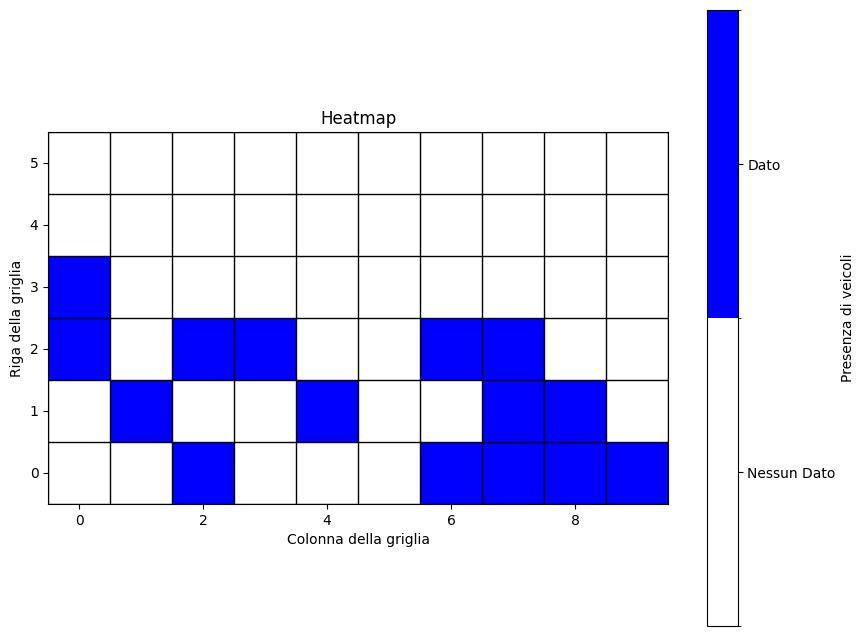
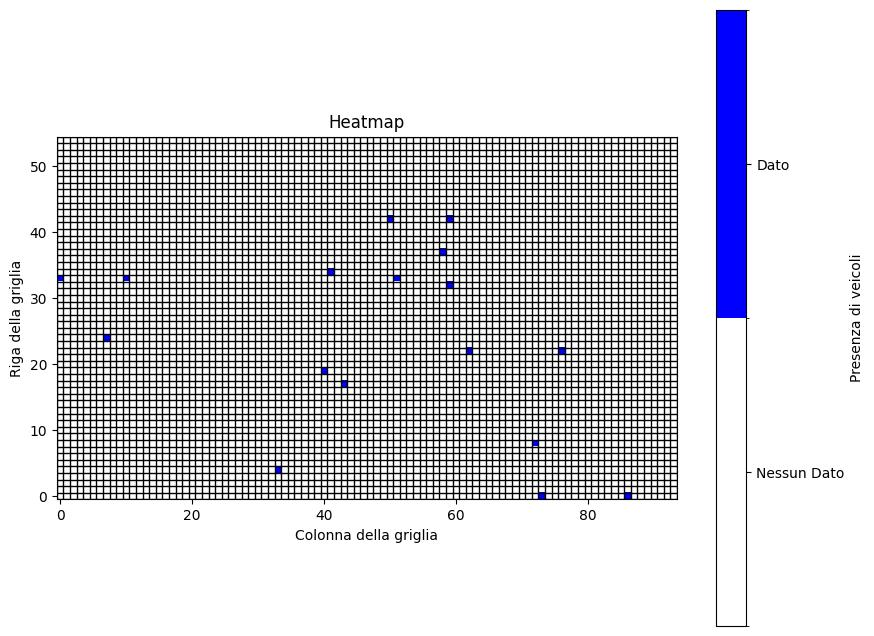
random start vehicles

diff --git a/parking_on_off_road/parking_on_off_road.py b/parking_on_off_road/parking_on_off_road.py
@@ -643,12 +643,14 @@ def estrai_numero(veicolo):
 
 def random_point_on_map():
     # Ottenere i limiti della mappa
-    edges = traci.edge.getIDList()
+
     min_x, min_y, max_x, max_y = float('inf'), float('inf'), float('-inf'), float('-inf')
     NET_FILE = "parking_on_off_road.net.xml"
     tree = ET.parse(NET_FILE)
     root = tree.getroot()
     ENTRY_EXIT_LIST = ["E85","-E85","E86","-E86"]
+
+    #calcolo lane arrivo
     try:
         # Iterare su tutti gli edge
         for edge in root.findall('edge'):
@@ -715,35 +717,83 @@ def random_point_on_map():
                 edge_id = e
                 break
 
+    # calcolo lane partenza
+    try:
+        # Iterare su tutti gli edge
+        for edge in root.findall('edge'):
+            # Iterare su tutte le lane all'interno dell'edge
+            if edge.get("id") not in ENTRY_EXIT_LIST:
+                for lane in edge.findall('lane'):
+                    # Ottenere il valore dell'attributo shape
+                    shape = lane.get('shape')
+                    if shape:
+                        # Analizzare i punti dell'attributo shape
+                        points = shape.split()
+                        for point in points:
+                            x, y = map(float, point.split(','))
+                            # Aggiornare i limiti
+                            min_x = min(min_x, x)
+                            min_y = min(min_y, y)
+                            max_x = max(max_x, x)
+                            max_y = max(max_y, y)
 
-    """if heatmap == True:
-        if random.random() < 0.5:
-            preference = "distance"
-        else:
-            preference = "find-possibility"
+
+
+    except Exception as e:
+        print(f"Errore durante l'ottenimento dei limiti della mappa dal file di rete: {e}")
+        return None, None, None, None
+
+        # Generare un punto casuale all'interno dei limiti della mappa
+    random_x = random.uniform(min_x, max_x)
+    random_y = random.uniform(min_y, max_y)
+
+    # Generare randomicamente edge_id = None con una probabilità del 10%
+    # if random.random() < 0.1:  # Probabilità del 10%
+    #   return (random_x, random_y), None
+
+    # Generare randomicamente uso heatmap 40%
+    if random.random() < 0.7:  # Probabilità del 40%
+        heatmap = True
     else:
-        preference = None
-    """
+        heatmap = False
+
+    # Ottenere l'edge più vicino al punto casuale
+    edge_id_p = None
+    while edge_id_p == None or edge_id_p in ENTRY_EXIT_LIST:
+        # print(f"edge id: {edge_id}")
+        try:
+            random_x = random.uniform(min_x, max_x)
+            random_y = random.uniform(min_y, max_y)
+            edge_id_p, _, _ = traci.simulation.convertRoad(random_x, random_y, isGeo=False)
+        except traci.TraCIException:
+            edge_id_p = None
+
+    connected_edges = []
+    # Verificare se l'edge_id è quello di una junction e trovare un edge connesso
+    if edge_id_p and edge_id_p.startswith(':'):
+        for edge in root.findall('edge'):
+            # print(f"to: {edge.get('to')}, current {(edge_id.split('_')[0])[1:]}")
+            if edge.get("to") == (edge_id_p.split('_')[0])[1:]:
+                connected_edges.append(edge.get("id"))
+
+        for e in connected_edges:
+            if not e.startswith(':') and e not in ENTRY_EXIT_LIST:
+                edge_id_p = e
+                break
 
     """,preference"""
-    return (random_x, random_y), edge_id,heatmap
+    return (random_x, random_y), edge_id_p,edge_id,heatmap
 
 
-def get_vehicle_ids_from_xml(xml_file):
+def get_vehicle_number_from_xml(xml_file):
     tree = ET.parse(xml_file)
     root = tree.getroot()
 
-    vehicle_ids = []
-    for flow in root.findall('.//flow'):
-        flow_id = flow.get('id')
-        number = int(flow.get('number', 0))
-        for i in range(number):
-            vehicle_ids.append(f"{flow_id}.{i}")
-
-    return vehicle_ids
+    dimensione_area = int(root.find('vehicles_number').text)
+    return dimensione_area
 
 
-def set_vehicle_destinations():
+def set_vehicle_point_A_B():
     # Nome del file CSV
     file_name = 'setDestination.csv'
 
@@ -753,13 +803,12 @@ def set_vehicle_destinations():
         return
 
     # Ottenere la lista dei veicoli dal file XML
-    vehicle_ids = get_vehicle_ids_from_xml('parking_on_off_road.rou.xml')
+    vehicle_number = get_vehicle_number_from_xml('heat_map.xml') #da modificare
 
-    if not vehicle_ids:
-        print("Nessun veicolo presente nel file XML.")
-        return
+    vehicle_ids = []
 
-
+    for i in range(vehicle_number):
+        vehicle_ids.append(f"vehicle_{i}")
 
     # Lista per salvare le destinazioni dei veicoli
     destinations = []
@@ -767,10 +816,10 @@ def set_vehicle_destinations():
     for vehicle_id in vehicle_ids:
         # Ottenere un punto casuale sulla mappa
         """, preference"""
-        (x, y), edge_id, heat_map = random_point_on_map()
+        (x, y),edge_id_p, edge_id, heat_map = random_point_on_map()
         if edge_id:
             """,preference"""
-            destinations.append([vehicle_id, edge_id, x, y,heat_map])
+            destinations.append([vehicle_id,edge_id_p,edge_id, x, y,heat_map])
         else:
             print(f"Errore creazione destinazione veicolo {vehicle_id}")
             destinations.append([vehicle_id,"None"])
@@ -779,7 +828,7 @@ def set_vehicle_destinations():
     with open(file_name, mode='w', newline='') as file:
         writer = csv.writer(file)
         """,'preference'"""
-        writer.writerow(['VehicleID', 'EdgeID', 'X', 'Y','heatmap'])
+        writer.writerow(['VehicleID','EdgeIDp','EdgeID', 'X', 'Y','heatmap'])
         for destination in destinations:
             writer.writerow(destination)
 
@@ -787,7 +836,7 @@ def set_vehicle_destinations():
     print(f"{file_name} è stato creato con le destinazioni dei veicoli.")
 
 
-def get_vehicle_destinations():
+def get_vehicle_point_A_B():
     # Nome del file CSV
     file_name = 'setDestination.csv'
 
@@ -797,6 +846,7 @@ def get_vehicle_destinations():
         return
 
     # Legge le destinazioni dal file CSV
+    starting_lanes = {}
     destinations = {}
     use_heatmap = {}
     #preference = {}
@@ -804,13 +854,15 @@ def get_vehicle_destinations():
         reader = csv.DictReader(file)
         for row in reader:
             vehicle_id = row['VehicleID']
+            edge_id_p = row['EdgeIDp']
             edge_id = row['EdgeID']
             heat_map = row['heatmap']
+            starting_lanes[vehicle_id] = edge_id_p
             destinations[vehicle_id] = edge_id
             use_heatmap[vehicle_id] = heat_map
             #preference[vehicle_id] = row['preference']
 
-    return destinations,use_heatmap #,preference
+    return starting_lanes, destinations,use_heatmap #,preference
 
 
 
@@ -825,7 +877,7 @@ def run():
     #lista formata da tutte le transizioni intermedie della heatmap ( posso creare una GIF )
     storic_heatmap = []
 
-    set_vehicle_destinations()
+    set_vehicle_point_A_B()
     parking_list = traci.parkingarea.getIDList()  #lista parcheggi
 
     parked_vehicles = {}                          # veicoli parcheggiati co relativi parcheggi
@@ -876,7 +928,11 @@ def run():
     car_arrived_in_b = [] #lista di veicoli arrivati al loro punto B
 
     """,preference """
-    destinations,use_heatmap  = get_vehicle_destinations() # punti B per ciascun veicolo
+    starting_lanes,destinations,use_heatmap = get_vehicle_point_A_B() # punti B per ciascun veicolo
+
+
+
+
 
     #print(destinations)
     net = sumolib.net.readNet("parking_on_off_road.net.xml")
@@ -887,14 +943,65 @@ def run():
     print("FINE HEATMAP")
 
 
-    print('Mappa parcheggi')
+    delay_start = 10 # delay di partenza di un veicolo dall' altro
+    current_delay_time = 0 # delay attuale
 
-    print('Fine Mappa parcheggi')
+    vehicle_index = 0 # indice del veicolo che sta per partire
 
+    vehicle = list(starting_lanes.keys())[vehicle_index]
+    st_lane = starting_lanes[vehicle]  # Ottieni la lane di partenza
+
+    print(f"Faccio partire il veicolo: {vehicle}")
+
+    # Crea una route per il veicolo basata sull'edge (st_lane)
+    traci.route.add(routeID=f"route_{vehicle}", edges=[st_lane])
+    traci.vehicle.add(
+        vehID=vehicle,
+        routeID=f"route_{vehicle}",  # Route creata dinamicamente per ogni veicolo
+        departPos="0",  # Posizione iniziale sulla corsia
+        departSpeed="max"  # Velocità massima alla partenza
+    )
+    vehicle_index += 1
 
     while traci.simulation.getMinExpectedNumber() > 0:
+        print(f"numero veicoli attuale: {traci.vehicle.getIDList()}")
+        #if len(traci.vehicle.getIDList()) == 0:
+            #break
+
+        print(f"veicoli aspettati:{ traci.simulation.getMinExpectedNumber()}")
+
+        if current_delay_time < delay_start and vehicle_index < len(starting_lanes):
+            vehicle = list(starting_lanes.keys())[vehicle_index]  # Prendi il veicolo successivo
+            st_lane = starting_lanes[vehicle]  # Ottieni la lane di partenza
+
+            print(f"Faccio partire il veicolo: {vehicle}")
+
+            # Crea una route per il veicolo basata sull'edge (st_lane)
+            traci.route.add(routeID=f"route_{vehicle}", edges=[st_lane])
+
+            # Aggiungi il veicolo usando la route appena creata
+            traci.vehicle.add(
+                vehID=vehicle,
+                routeID=f"route_{vehicle}",  # Route creata dinamicamente per ogni veicolo
+                departPos="0",  # Posizione iniziale sulla corsia
+                departSpeed="0.1"  # Velocità massima alla partenza
+            )
+
+            traci.vehicle.setMaxSpeed(vehicle, 10.0)
+
+            vehicle_index += 1  # Incrementa solo dopo aver aggiunto il veicolo
+
+        current_delay_time = current_delay_time % delay_start
+
         traci.simulationStep()
         current_time = traci.simulation.getTime()
+
+        if len(traci.vehicle.getIDList() ) == 0:
+            print("Tutti i veicoli sono usciti: fine simulazione!")
+            break
+
+
+
 
 
         for vehicle_id in traci.vehicle.getIDList():
